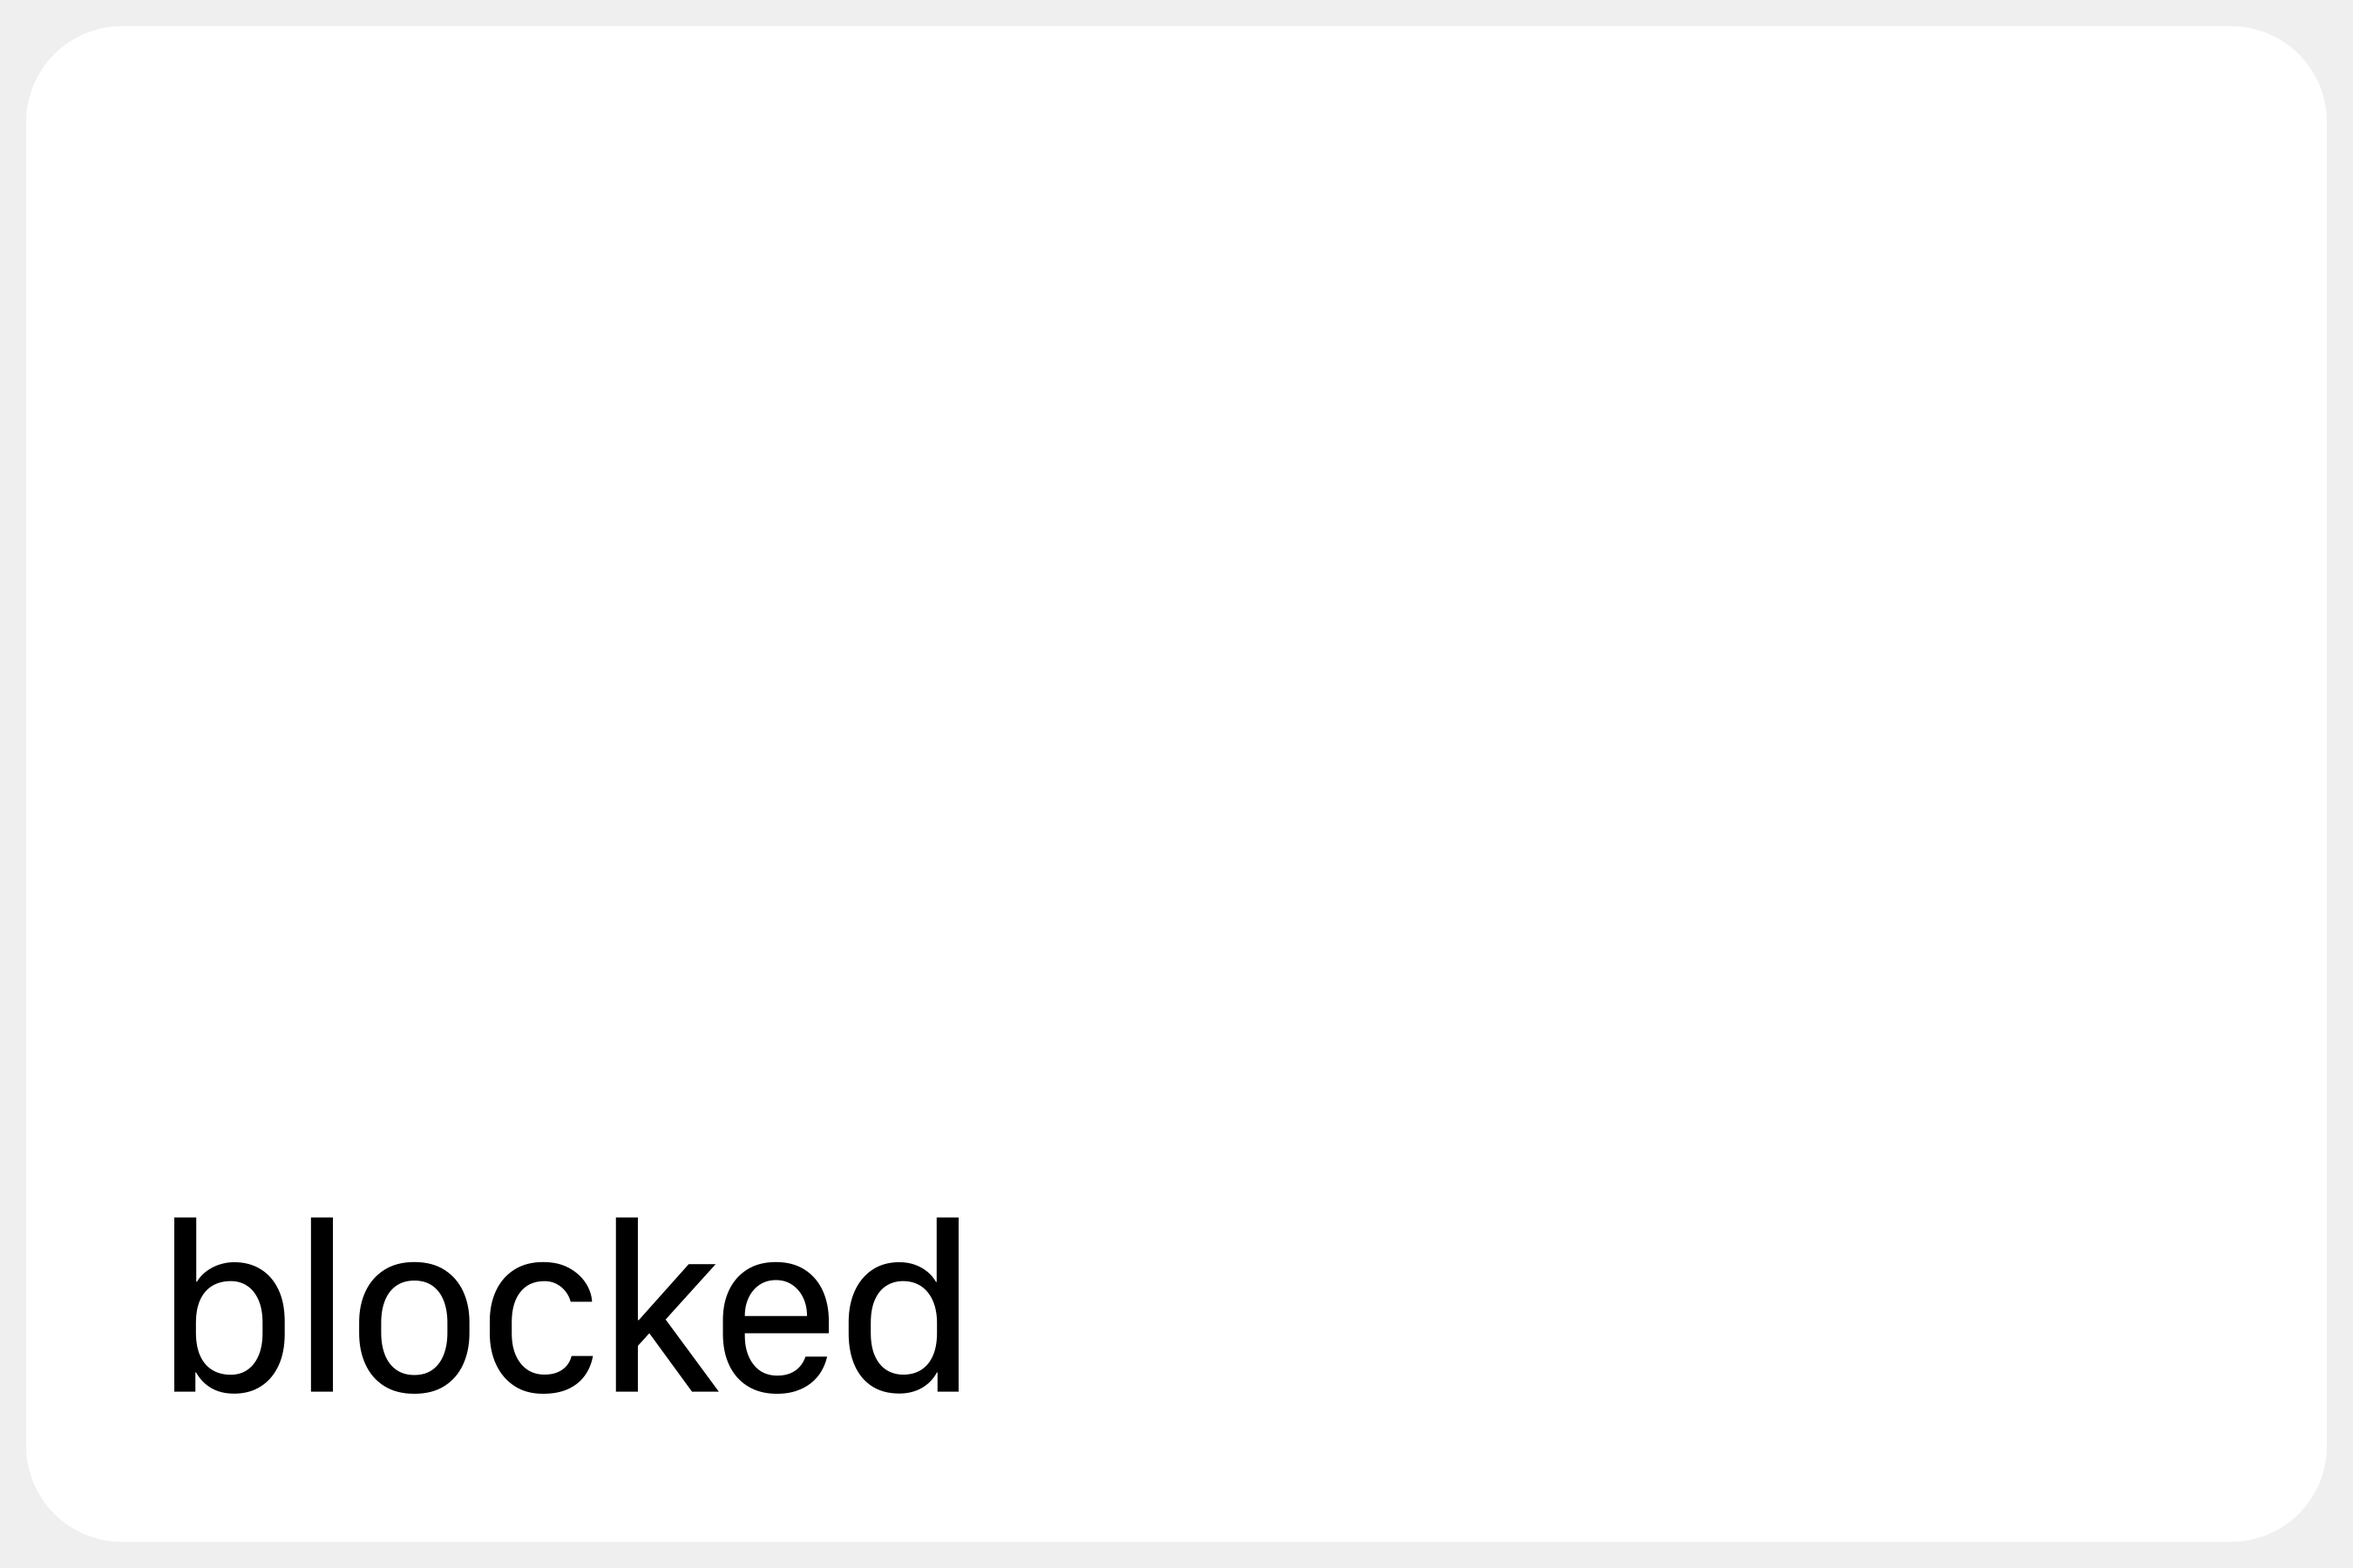
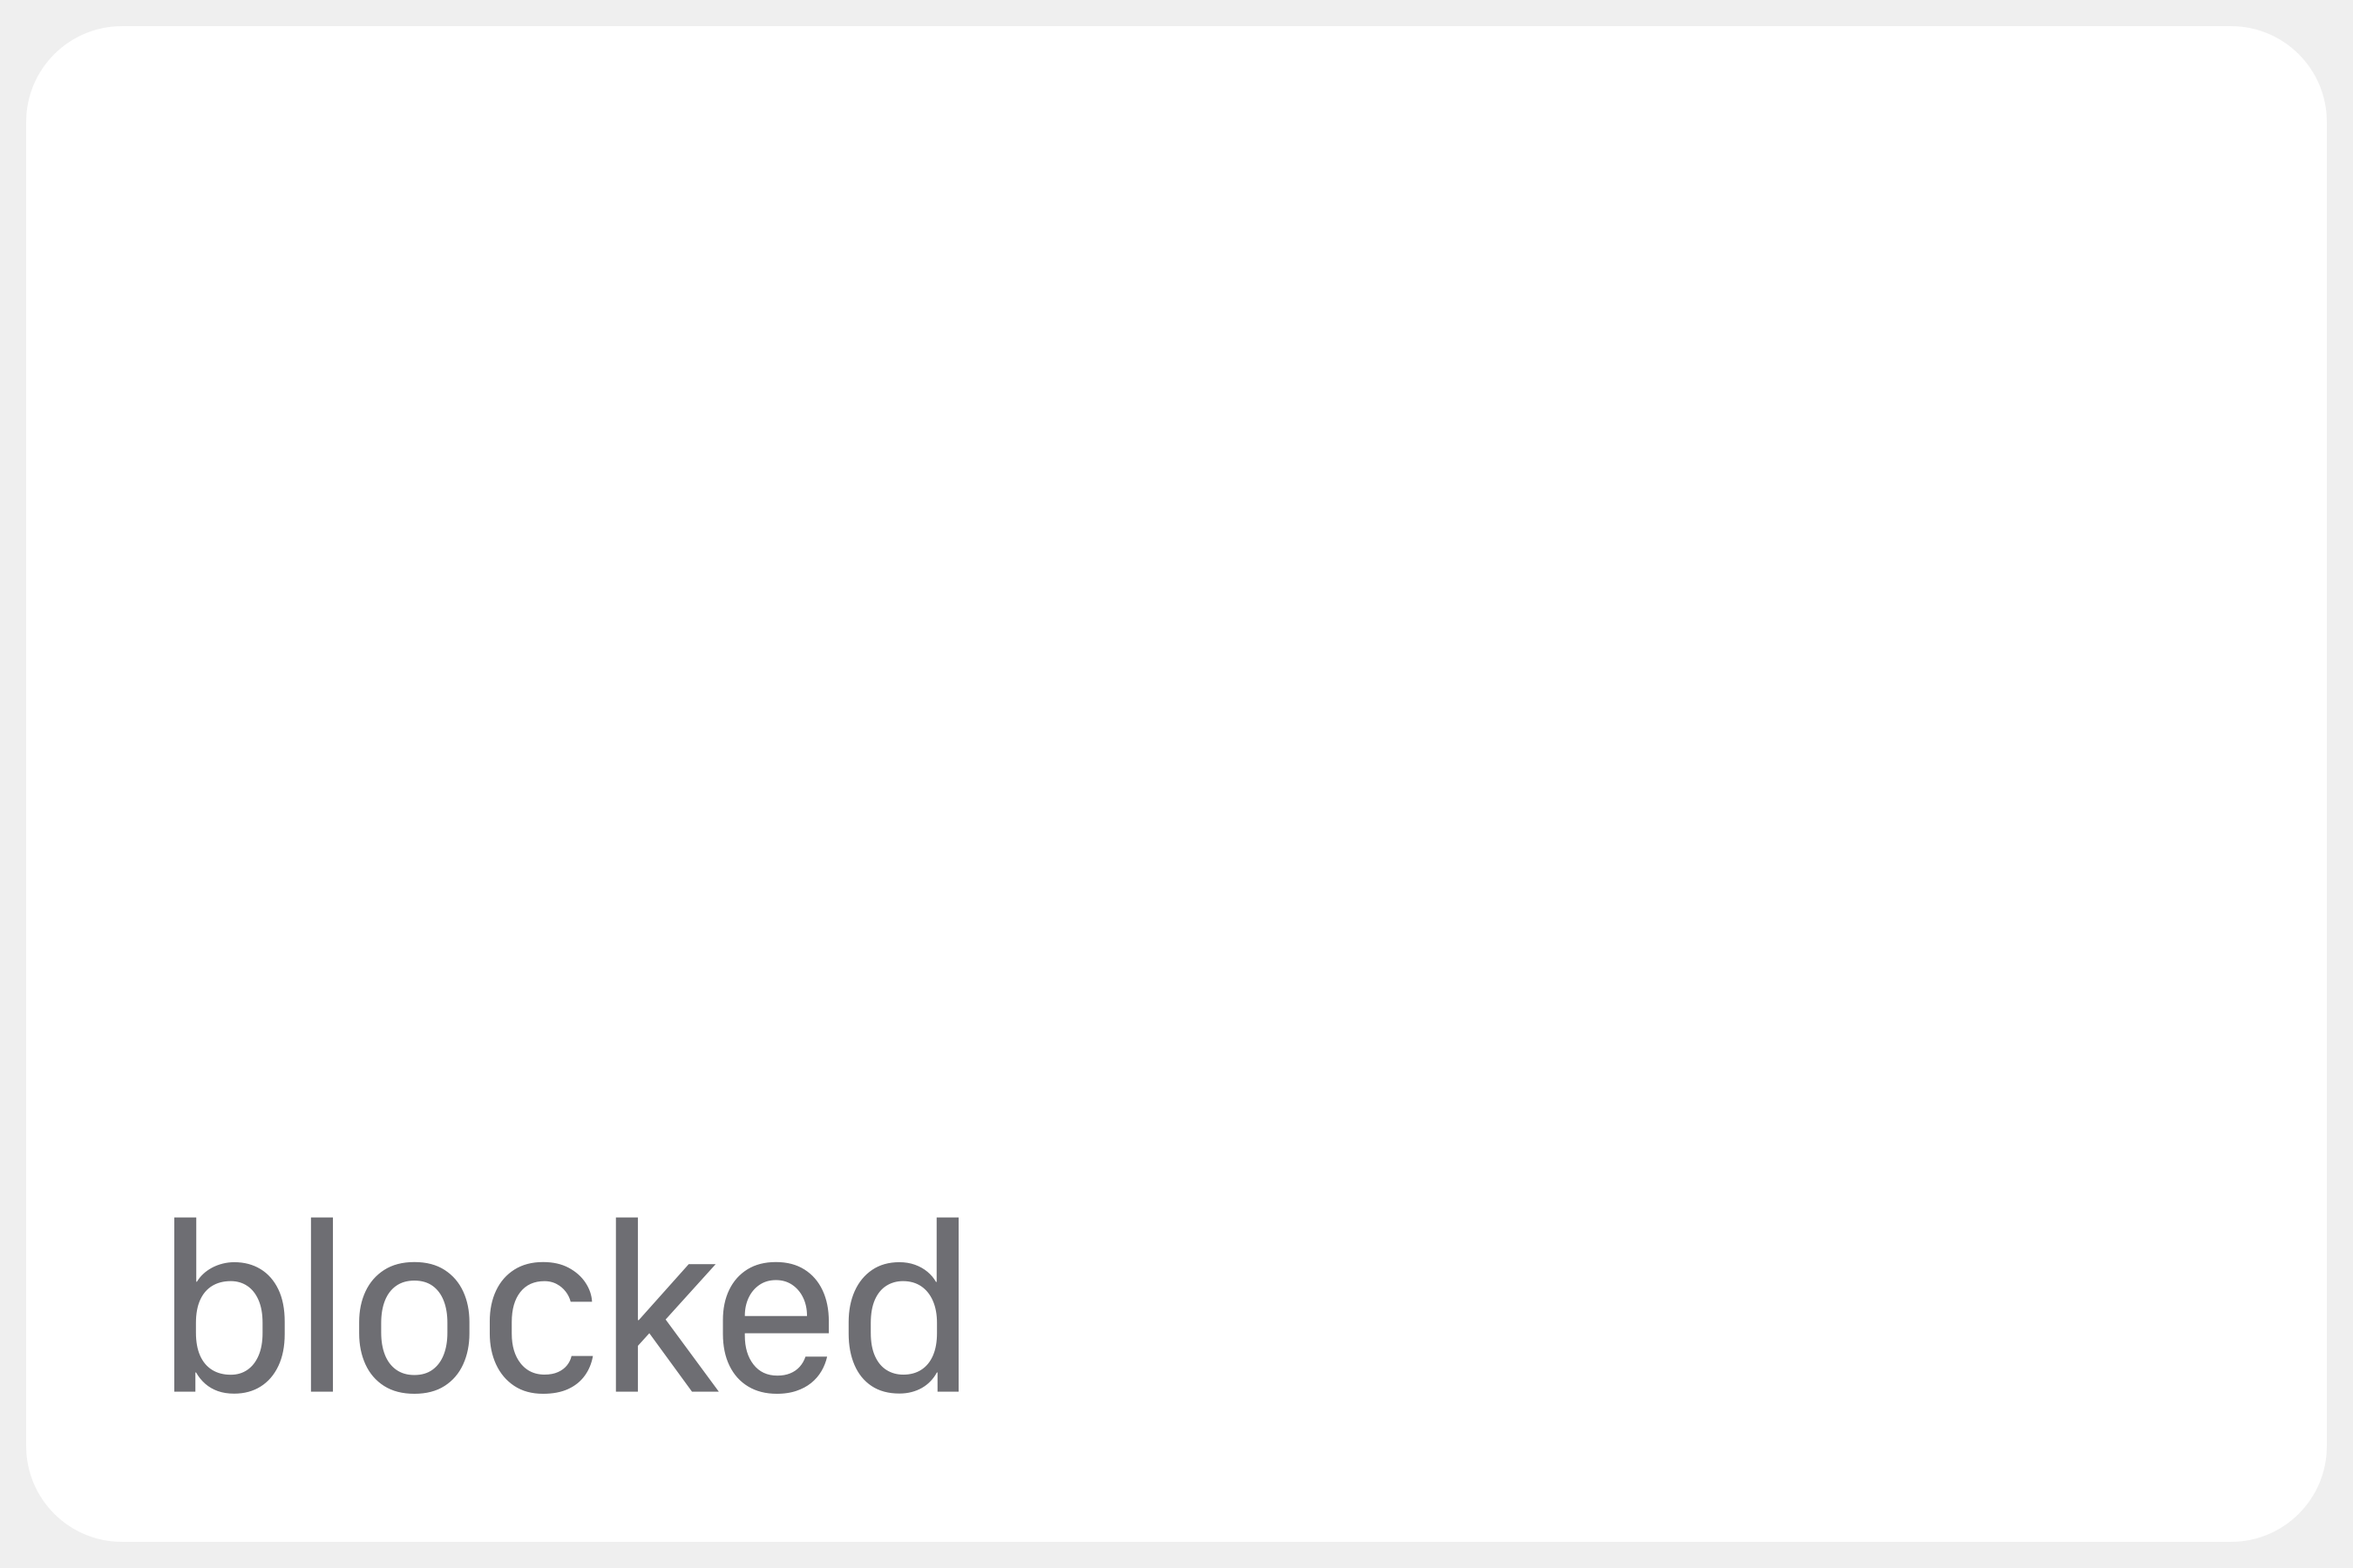
design: use cool-gray Tab keycap lettering

Changed region(s): [[0.0622, 0.7778, 0.4044, 0.9022]]

diff --git a/keycap/make-artwork.swift b/keycap/make-artwork.swift
@@ -31,6 +31,9 @@ for run in CTLineGetGlyphRuns(line) as! [CTRun] {
 let box = letters.boundingBoxOfPath
 let scale = 900 / box.width // 9 mm at 100 px/mm
 let width = 2700, height = 1800
+// Visual Apple-style gray approximation; not a manufacturer ink specification.
+let inkHex = "#6E6E73"
+let inkRGB: [CGFloat] = [110.0/255, 110.0/255, 115.0/255, 1]
 // SVG y grows down. Artwork's ink bounds have exactly 2 mm left/bottom inset.
 var transform = CGAffineTransform(a: scale, b: 0, c: 0, d: -scale,
     tx: 200 - box.minX * scale, ty: 1600 + box.minY * scale)
@@ -52,14 +55,14 @@ artwork.applyWithBlock { ptr in
 let svg = """
 <svg xmlns="http://www.w3.org/2000/svg" width="27mm" height="18mm" viewBox="0 0 2700 1800">
 <title>blocked — SF Compact Regular, lower-left Tab keycap artwork</title>
-<desc>Transparent nominal placement canvas, not a keycap dimensional drawing. Black legend 9 mm wide, 2 mm from left and bottom. Preserve placement; confirm on vendor proof. Lettering is paths, no embedded font.</desc>
-<path fill="#000000" d="\(commands.joined(separator: " "))"/>
+<desc>Transparent nominal placement canvas, not a keycap dimensional drawing. Cool-gray legend (#6E6E73, visual approximation) 9 mm wide, 2 mm from left and bottom. Preserve placement; confirm on vendor proof. Lettering is paths, no embedded font.</desc>
+<path fill="\(inkHex)" d="\(commands.joined(separator: " "))"/>
 </svg>
 """
 try svg.write(to: output.appendingPathComponent("blocked-tab-upload.svg"), atomically: true, encoding: .utf8)
 func render(filename: String, preview: Bool) throws {
     let ctx = CGContext(data: nil, width: width, height: height, bitsPerComponent: 8,
-        bytesPerRow: width * 4, space: CGColorSpaceCreateDeviceRGB(),
+        bytesPerRow: width * 4, space: CGColorSpace(name: CGColorSpace.sRGB)!,
         bitmapInfo: CGImageAlphaInfo.premultipliedLast.rawValue)!
     ctx.translateBy(x: 0, y: CGFloat(height)); ctx.scaleBy(x: 1, y: -1)
     if preview {
@@ -68,7 +71,7 @@ func render(filename: String, preview: Bool) throws {
         ctx.addPath(CGPath(roundedRect: CGRect(x: 30, y: 30, width: width-60, height: height-60), cornerWidth: 110, cornerHeight: 110, transform: nil))
         ctx.fillPath()
     }
-    ctx.setFillColor(CGColor(gray: 0, alpha: 1)); ctx.addPath(artwork); ctx.fillPath()
+    ctx.setFillColor(CGColor(colorSpace: CGColorSpace(name: CGColorSpace.sRGB)!, components: inkRGB)!); ctx.addPath(artwork); ctx.fillPath()
     let dest = CGImageDestinationCreateWithURL(output.appendingPathComponent(filename) as CFURL, UTType.png.identifier as CFString, 1, nil)!
     CGImageDestinationAddImage(dest, ctx.makeImage()!, [kCGImagePropertyDPIWidth: 2540, kCGImagePropertyDPIHeight: 2540] as CFDictionary)
     precondition(CGImageDestinationFinalize(dest))
@@ -79,6 +82,7 @@ let info: [String: Any] = [
     "font": CTFontCopyFullName(font) as String,
     "postscript_name": CTFontCopyPostScriptName(font) as String,
     "font_source": "Installed macOS /System/Library/Fonts/SFCompact.ttf; font binary not distributed",
+    "ink_srgb_hex": inkHex, "color_basis": "Visual Apple-style gray approximation, not an official Apple ink specification",
     "text": "blocked", "word_width_mm": 9, "left_inset_mm": 2, "bottom_inset_mm": 2,
     "nominal_canvas_mm": [27,18], "png_pixels": [width,height],
     "ink_bounds_pixels": [artwork.boundingBoxOfPath.minX, artwork.boundingBoxOfPath.minY, artwork.boundingBoxOfPath.width, artwork.boundingBoxOfPath.height],

diff --git a/keycap/README.md b/keycap/README.md
@@ -16,11 +16,14 @@ The exact 1.5u configuration was checked in the live selector on September 5,
 The current design uses **Apple SF Compact Regular**, rendered from the font
 already installed on the Mac. The lowercase word sits at the **lower-left of
 the TOP surface**, as viewed by the person typing. Use the selected **R3 1x1.5
-(Tab / \|)** option, White, TOP Print only.
+(Tab / \|)** option, White, TOP Print only. The lettering is cool gray
+**sRGB #6E6E73 (RGB 110, 110, 115)**, chosen as a visual Apple-style approximation.
+It is not an official Apple ink specification; ask the printer to confirm the
+printed gray on the white cap in the proof.
 
 Paste this into the comments field:
 
-> Print the supplied lowercase “blocked” lettering in black on the TOP surface
+> Print the supplied lowercase “blocked” lettering in cool gray (sRGB #6E6E73) on the TOP surface
 > of the white R3 1x1.5 Tab keycap. Preserve the supplied font shapes. Set the
 > word approximately 9 mm wide, with its visible ink 2 mm from the usable top
 > surface's LEFT and FRONT (lower) edges, viewed from the typist's position.
@@ -29,7 +32,7 @@ Paste this into the comments field:
 > provide a placement proof before printing.
 
 The SVG contains outlined lettering only, with no embedded font or live text.
-The transparent PNG is 2700 × 1800 px, about 102 KB, satisfying the shown
+The transparent PNG is 2700 × 1800 px, under 200 KB, satisfying the shown
 300 px minimum and 2 MB maximum. Upload **one** of these two files. The
 [placement preview](blocked-tab-placement-preview.png) is illustrative and
 contains a white key shape; **do not upload the preview as print artwork**.
